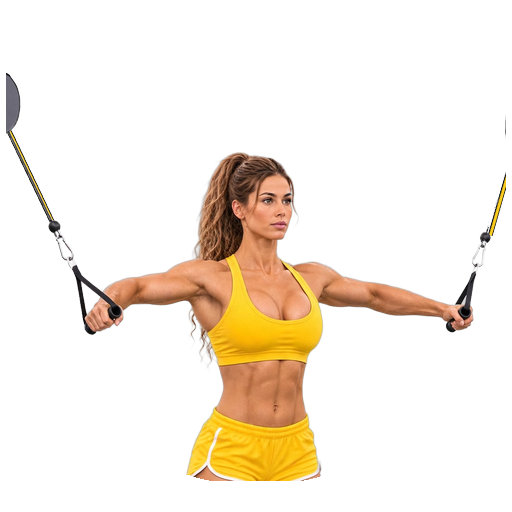
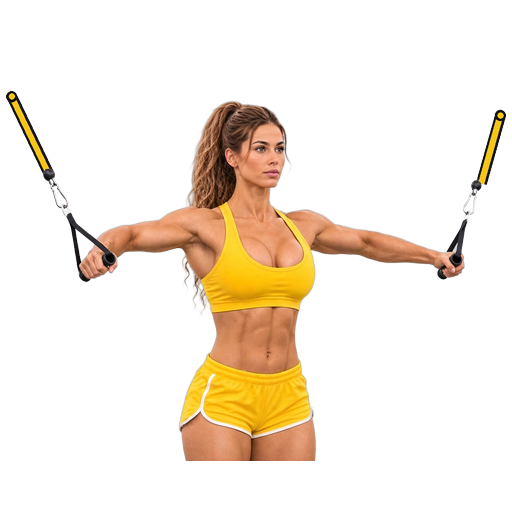
1.8.41 : câbles de l'écarté poulie plus visibles, détourage affiné
Claude-Session: https://claude.ai/code/session_01D2bERS7WBZgExNoVRodtwC

Changed region(s): [[0.0, 0.125, 0.9375, 0.9375], [0.9062, 0.2188, 1.0, 0.5]]

diff --git a/sw.js b/sw.js
@@ -4,7 +4,7 @@
 // APP_VERSION doit être incrémenté à chaque release (en même temps que
 // manifest.json) : le navigateur ne réinstalle le service worker que si
 // le contenu de ce fichier change.
-const APP_VERSION = '1.8.40';
+const APP_VERSION = '1.8.41';
 // 1.7.64 (co-auteur : Claude) : production (…/suivi-fitness/) et test (…/suivi-fitness/dev/) sont sur le même
 // domaine et partagent le stockage des caches : chaque version nomme ses caches d'après son dossier et ne
 // supprime que les siens (plus les anciens caches sans dossier, d'avant la 1.7.64).

diff --git a/CHANGELOG.md b/CHANGELOG.md
@@ -7,6 +7,14 @@ et ce projet respecte [Semantic Versioning](https://semver.org/spec/v2.0.0.html)
 
 ---
 
+## [1.8.41] - 2026-11-18
+### 🎨 Icônes d'exercices : câbles plus visibles, détourage affiné (co-auteur : Claude)
+- Écarté poulie : câbles redessinés deux fois plus épais (jaune à liseré noir, bouts arrondis), lisibles en clair comme en sombre ; les têtes de poulie, coupées par le cadre de la photo, sont retirées et l'icône montre l'athlète entière jusqu'aux cuisses.
+- Curl incliné : morceaux de mur clair retirés (entre la taille et le dossier, derrière les cheveux).
+- Tapis de course : le plateau reste visible sous les baskets au lieu d'être coupé par la pastille.
+
+---
+
 ## [1.8.40] - 2026-11-18
 ### 🎨 Icônes d'exercices : nouveaux cadrages et détourage refait (co-auteur : Claude)
 - Cadrages choisis sur la planche interactive : « Débordant » (serré, coupé net par le bas de la pastille, la tête et les bras peuvent dépasser en haut) pour Développé décliné, Écarté poulie, Curl incliné, Rotation russe, Tapis de course, Curl biceps et Rowing barre (ces deux derniers plus zoomés) ; « Serré » pour Relevés de jambes suspendu (barre raccourcie à droite, baskets entières).
